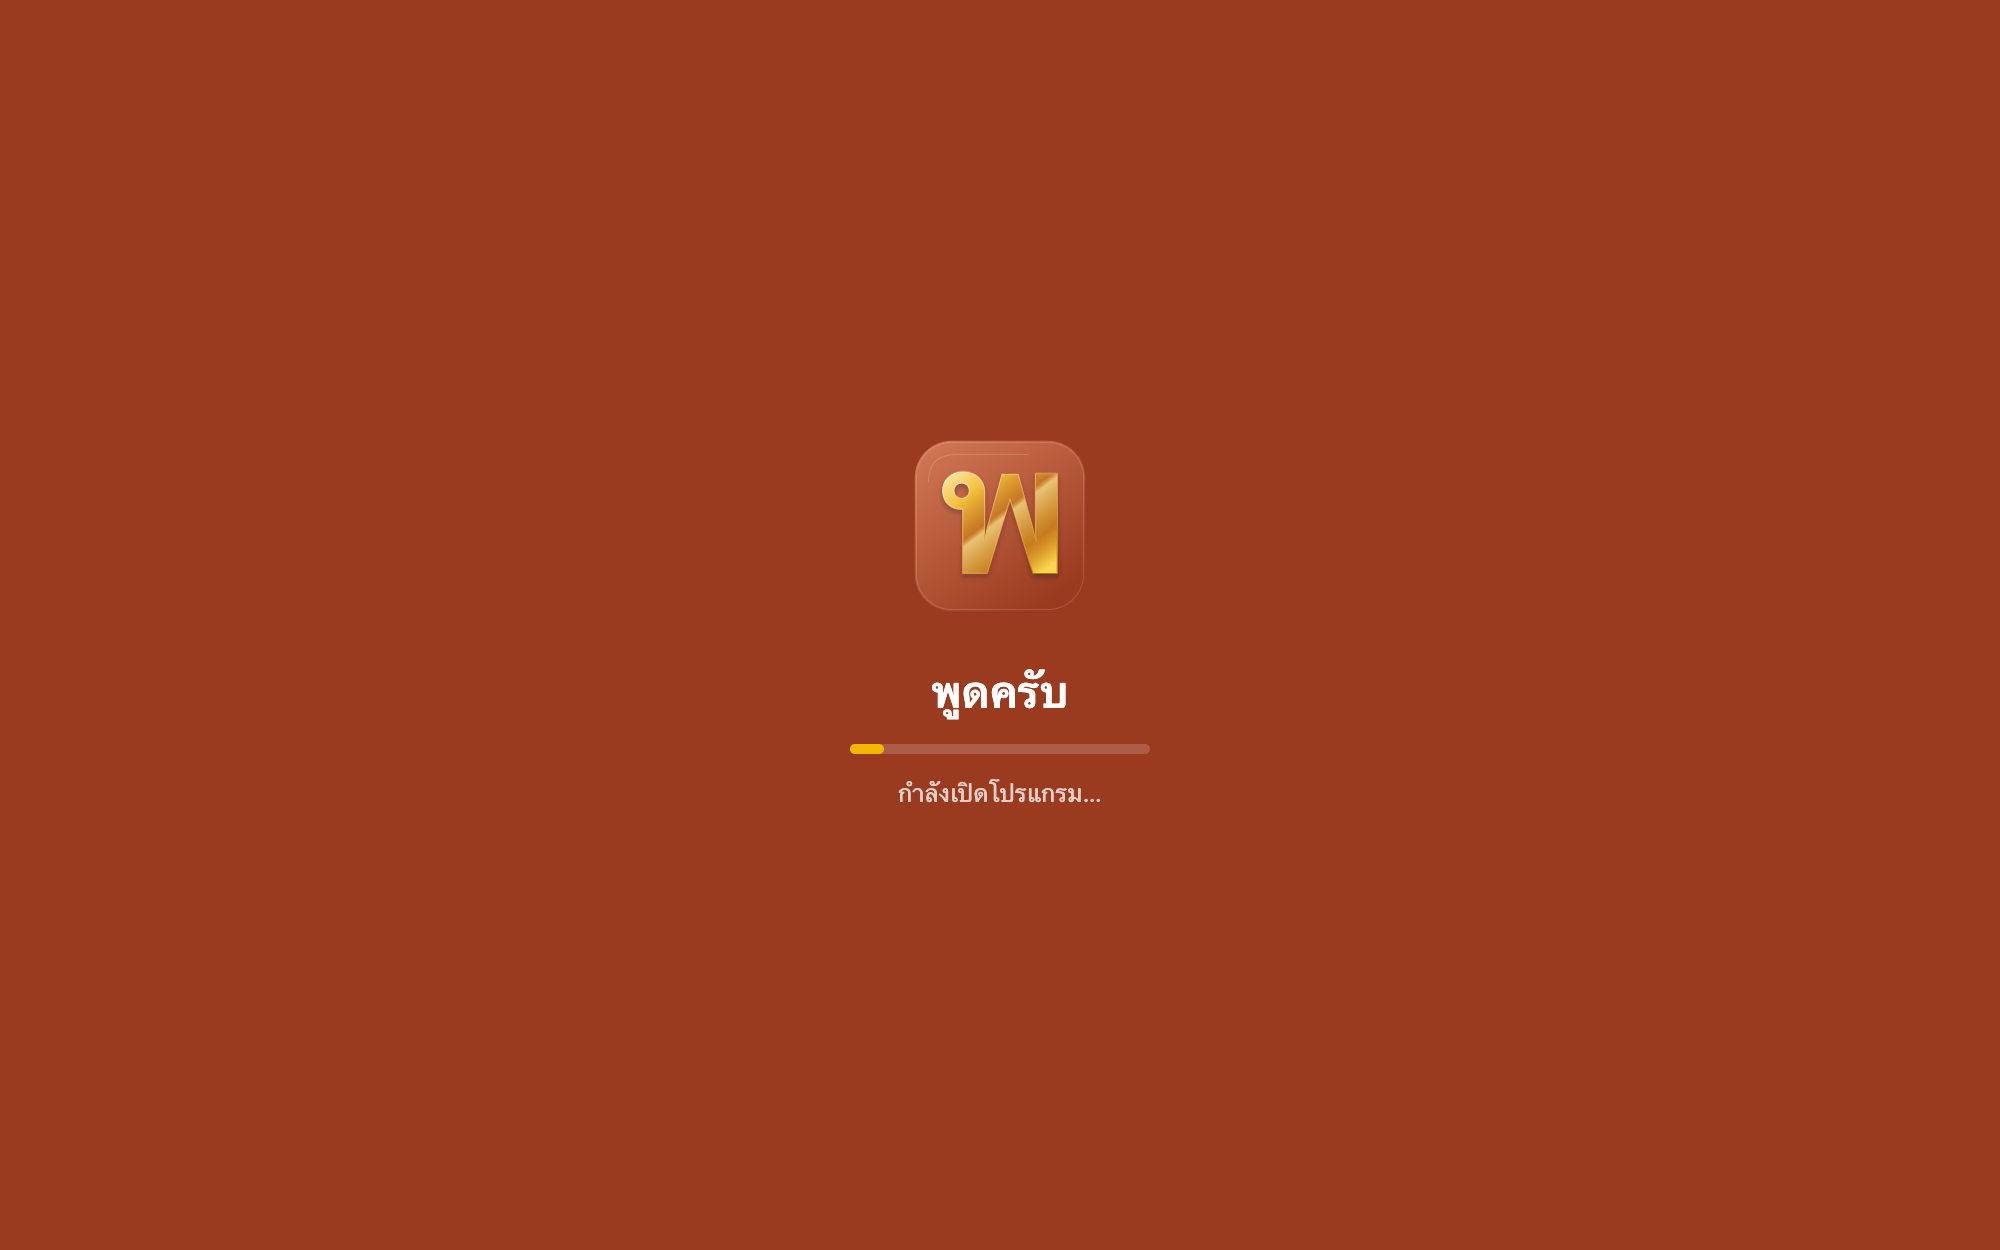
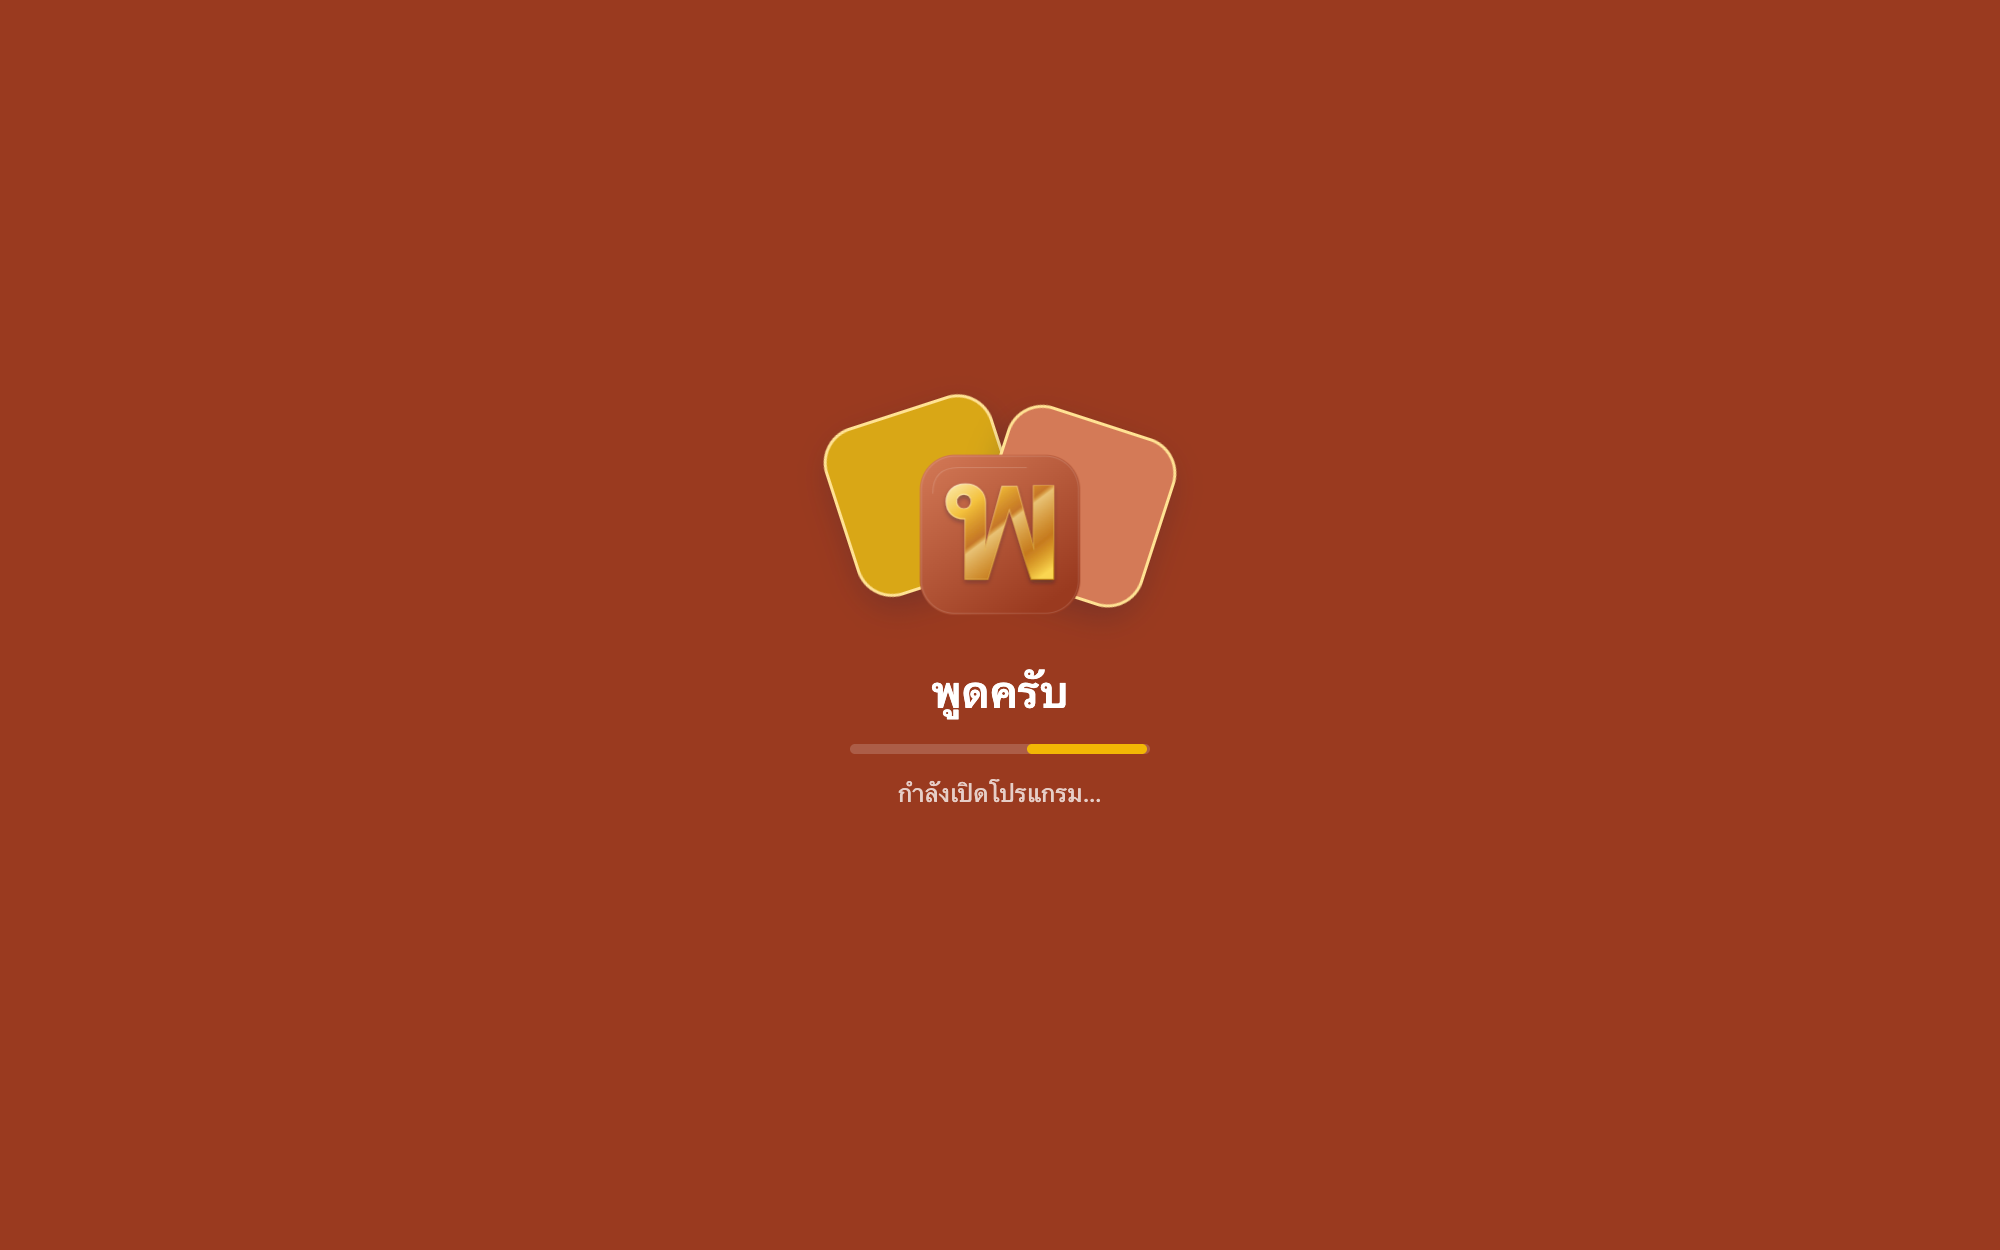
Publish PhutKrub web 0.4.0 (baca8cf2)

Changed region(s): [[0.403, 0.312, 0.589, 0.4992], [0.496, 0.5928, 0.589, 0.624]]

diff --git a/index.html b/index.html
@@ -98,13 +98,29 @@ dispatchEvent(new CustomEvent("TrunkApplicationStarted", {detail: {wasm}}));
     #phutkrub_loading { position: absolute; inset: 0; display: flex; flex-direction: column; align-items: center; justify-content: center;
       gap: 10px; padding: 24px; box-sizing: border-box; background: #9a3a1f; color: #fff;
       font: 14px system-ui, sans-serif; text-align: center; }
-    .loading-logo { display: block; width: 88px; height: 88px; margin-bottom: 12px; }
+    /* KhianKrub's loading animation: two sheets (gold and a lighter coral) fly in behind the logo and settle. */
+    .loading-icon { position: relative; width: 88px; height: 88px; margin-bottom: 12px; }
+    .loading-icon .sheet { position: absolute; inset: 0; border-radius: 21%; border: 1.5px solid #ffe293;
+      box-sizing: border-box; transform-origin: 50% 65%; box-shadow: 0 6px 14px #07184230; }
+    .loading-icon .one { background: #d9a716; animation: sheet-one 3.8s cubic-bezier(.25,.8,.25,1) infinite; }
+    .loading-icon .two { background: #d47a57; animation: sheet-two 3.8s cubic-bezier(.25,.8,.25,1) infinite; }
+    .loading-logo { position: relative; z-index: 2; display: block; width: 100%; height: 100%; overflow: visible;
+      animation: settle 3.8s cubic-bezier(.25,.8,.25,1) infinite; }
     .loading-name { margin: 0; font-size: 22px; font-weight: 650; line-height: 1.5; }
     #phutkrub_progress { width: 150px; height: 5px; border-radius: 3px; overflow: hidden; background: rgb(255 255 255 / 18%); }
     #phutkrub_progress[hidden] { display: none; }
     .loading-fill { width: 40%; height: 100%; border-radius: 3px; background: #f2b705; animation: loading 1.6s ease-in-out infinite; }
     @keyframes loading { 0% { margin-left: -40%; } 100% { margin-left: 100%; } }
-    @media (prefers-reduced-motion: reduce) { .loading-fill { animation: none; margin: auto; } }
+    @keyframes sheet-one{0%,8%{transform:translate(-45%,-23%) rotate(-22deg);opacity:0}20%,37%{transform:translate(-38%,-18%) rotate(-18deg);opacity:1}63%,86%{transform:translate(0,0) rotate(0);opacity:1}100%{transform:translate(0,0) rotate(0);opacity:0}}
+    @keyframes sheet-two{0%,14%{transform:translate(45%,-16%) rotate(22deg);opacity:0}28%,44%{transform:translate(38%,-12%) rotate(18deg);opacity:1}72%,86%{transform:translate(0,0) rotate(0);opacity:1}100%{transform:translate(0,0) rotate(0);opacity:0}}
+    @keyframes settle{0%,8%{transform:translateY(10%) scale(.88)}28%,44%{transform:translateY(5%) scale(.94)}72%,100%{transform:translateY(0) scale(1)}}
+    @media (prefers-reduced-motion: reduce) {
+      .loading-icon .sheet { display: none; }
+      .loading-logo { animation: none; }
+      .loading-fill { animation: none; margin: auto; }
+    }
+    #phutkrub_loading[aria-busy="false"] .sheet { display: none; }
+    #phutkrub_loading[aria-busy="false"] .loading-logo { animation: none; }
     #phutkrub_loading[aria-busy="false"] #phutkrub_progress { display: none; }
     #phutkrub_loading_status, .loading-note { margin: 0; color: rgb(255 255 255 / 75%); font-size: 12px; line-height: 1.6; }
     #phutkrub_loading_status { max-width: 36em; overflow-wrap: anywhere; }
@@ -113,6 +129,8 @@ dispatchEvent(new CustomEvent("TrunkApplicationStarted", {detail: {wasm}}));
 <body>
   <canvas id="phutkrub_canvas"></canvas>
   <div id="phutkrub_loading" aria-busy="true">
+    <div class="loading-icon" aria-hidden="true">
+      <span class="sheet one"></span><span class="sheet two"></span>
     <svg class="loading-logo" xmlns="http://www.w3.org/2000/svg" viewBox="0 0 512 512" role="img" aria-label="PhutKrub glass logo draft"><!-- Quiet Glass artwork: KrubOffice contributors, MIT OR Apache-2.0. Thai outline: Sarabun Bold, SIL OFL 1.1; see OFL-Sarabun.txt. -->
 <defs>
  <linearGradient id="bg2" x2=".7" y2="1"><stop stop-color="#d47a57"/><stop offset="1" stop-color="#9a3a1f"/></linearGradient>
@@ -124,6 +142,7 @@ dispatchEvent(new CustomEvent("TrunkApplicationStarted", {detail: {wasm}}));
  <path d="M48 128Q48 48 128 48h210" fill="none" stroke="#fff" stroke-width="3" stroke-opacity=".16" stroke-linecap="round"/>
  <g transform="" filter="url(#shadow2)"><path d="M 422.61 104.04 L 422.61 393.97 L 352.14 393.97 L 285.19 179.04 L 218.75 393.97 L 147.78 393.97 L 147.78 207.23 L 144.76 207.23 Q 120.09 207.23 104.74 192.38 Q 89.39 177.53 89.39 153.37 Q 89.39 129.71 106.00 114.36 Q 122.61 99.00 148.79 99.00 Q 176.47 99.00 193.84 115.36 Q 211.20 131.72 211.20 157.39 L 211.20 263.60 Q 211.20 276.18 208.68 304.88 L 219.26 261.59 L 262.04 106.05 L 308.85 106.05 L 351.13 261.59 L 361.70 304.88 Q 359.19 276.18 359.19 263.60 L 359.19 104.04 L 422.61 104.04ZM 160.61 169.73 Q 166.91 163.43 166.91 153.37 Q 166.91 143.30 160.61 137.01 Q 154.32 130.71 144.26 130.71 Q 134.69 130.71 128.15 137.01 Q 121.60 143.30 121.60 153.37 Q 121.60 162.93 128.15 169.47 Q 134.69 176.02 144.26 176.02 Q 154.32 176.02 160.61 169.73Z" fill="url(#glass2)" stroke="url(#edge2)" stroke-width="3"/>
  <path d="M 422.61 104.04 L 422.61 393.97 L 352.14 393.97 L 285.19 179.04 L 218.75 393.97 L 147.78 393.97 L 147.78 207.23 L 144.76 207.23 Q 120.09 207.23 104.74 192.38 Q 89.39 177.53 89.39 153.37 Q 89.39 129.71 106.00 114.36 Q 122.61 99.00 148.79 99.00 Q 176.47 99.00 193.84 115.36 Q 211.20 131.72 211.20 157.39 L 211.20 263.60 Q 211.20 276.18 208.68 304.88 L 219.26 261.59 L 262.04 106.05 L 308.85 106.05 L 351.13 261.59 L 361.70 304.88 Q 359.19 276.18 359.19 263.60 L 359.19 104.04 L 422.61 104.04ZM 160.61 169.73 Q 166.91 163.43 166.91 153.37 Q 166.91 143.30 160.61 137.01 Q 154.32 130.71 144.26 130.71 Q 134.69 130.71 128.15 137.01 Q 121.60 143.30 121.60 153.37 Q 121.60 162.93 128.15 169.47 Q 134.69 176.02 144.26 176.02 Q 154.32 176.02 160.61 169.73Z" fill="none" stroke="#fffbe6" stroke-opacity=".22" stroke-width="1" transform="translate(0 -3)"/></g></svg>
+    </div>
     <h1 class="loading-name">พูดครับ</h1>
     <div id="phutkrub_progress" role="progressbar" aria-label="กำลังเปิดโปรแกรม"><div class="loading-fill"></div></div>
     <p id="phutkrub_loading_status" role="status">กำลังเปิดโปรแกรม…</p>

diff --git a/README.md b/README.md
@@ -22,6 +22,7 @@
 - **ไอคอนชุดใหม่** ไอคอนบนริบบิ้นวาดใหม่ทั้งชุด เส้นสีเข้มอ่านง่าย แต้มสีทองเฉพาะส่วนสำคัญ ใช้ชุดเดียวกับเขียนครับและคิดครับ
 - **ริบบิ้นแบบเดียวกับเขียนครับ** ไอคอนใหญ่ขึ้น ปุ่มเรียงกึ่งกลางแถบ ระยะห่างเท่ากันทุกกลุ่ม
 - **โลโก้ใหม่** ตัว พ สีทองบนพื้นสีส้มอิฐ แบบกระจกมีประกาย ทั้งหน้ารอเปิดโปรแกรมและหน้าเริ่มต้น
+- **ภาพเคลื่อนไหวขณะรอเปิดโปรแกรม** แผ่นสีทองกับแผ่นสีส้มอิฐลอยเข้ามาซ้อนหลังโลโก้ แบบเดียวกับเขียนครับ
 - **แก้ปัญหา** ช่องค้นหาคำสั่งไม่หยุดทำงานเมื่อฟอนต์ไม่มีสัญลักษณ์ปุ่มลัดอย่าง ⌥ แต่แสดงเป็นตัวอักษรแทน
 
 ## English announcement
@@ -32,6 +33,7 @@
 - **New icons.** Every ribbon icon has been redrawn: dark, easy-to-read lines with a touch of gold where it matters, the same set as KhianKrub and KhitKrub.
 - **KhianKrub's ribbon.** Larger icons, buttons centred in the ribbon, and even spacing in every group.
 - **A new logo.** A gold พ on coral with a glass shine, on the loading screen and the start screen.
+- **A loading animation.** A gold sheet and a coral sheet fly in behind the logo while the app loads, as in KhianKrub.
 - **Fixed.** The command search no longer stops working when the font has no shortcut symbol such as ⌥; it spells the shortcut out instead.
 
 ## หน้าตาโปรแกรม / A look around
@@ -72,4 +74,4 @@
 
 PhutKrub is Chanon Sarasuk's Thai adaptation of [DeckCraft](https://github.com/storytold/deckcraft) by the ArtCraft team (MIT OR Apache-2.0), one of the apps in [KrubOffice](https://kruboffice.app/). It is not an ArtCraft product and is not affiliated with Microsoft. The screenshots are taken from the running app and show DeckCraft's original sample deck. This repository holds the compiled site only; the source code is private. Third-party components keep their own licences: see `ATTRIBUTION.md`, `NOTICE`, and `fonts/` (Sarabun: SIL OFL 1.1; TH Sarabun New: GPL with the font exception).
 
-Prepared from version **0.4.0**, source commit `a01175db`.
+Prepared from version **0.4.0**, source commit `baca8cf2`.
